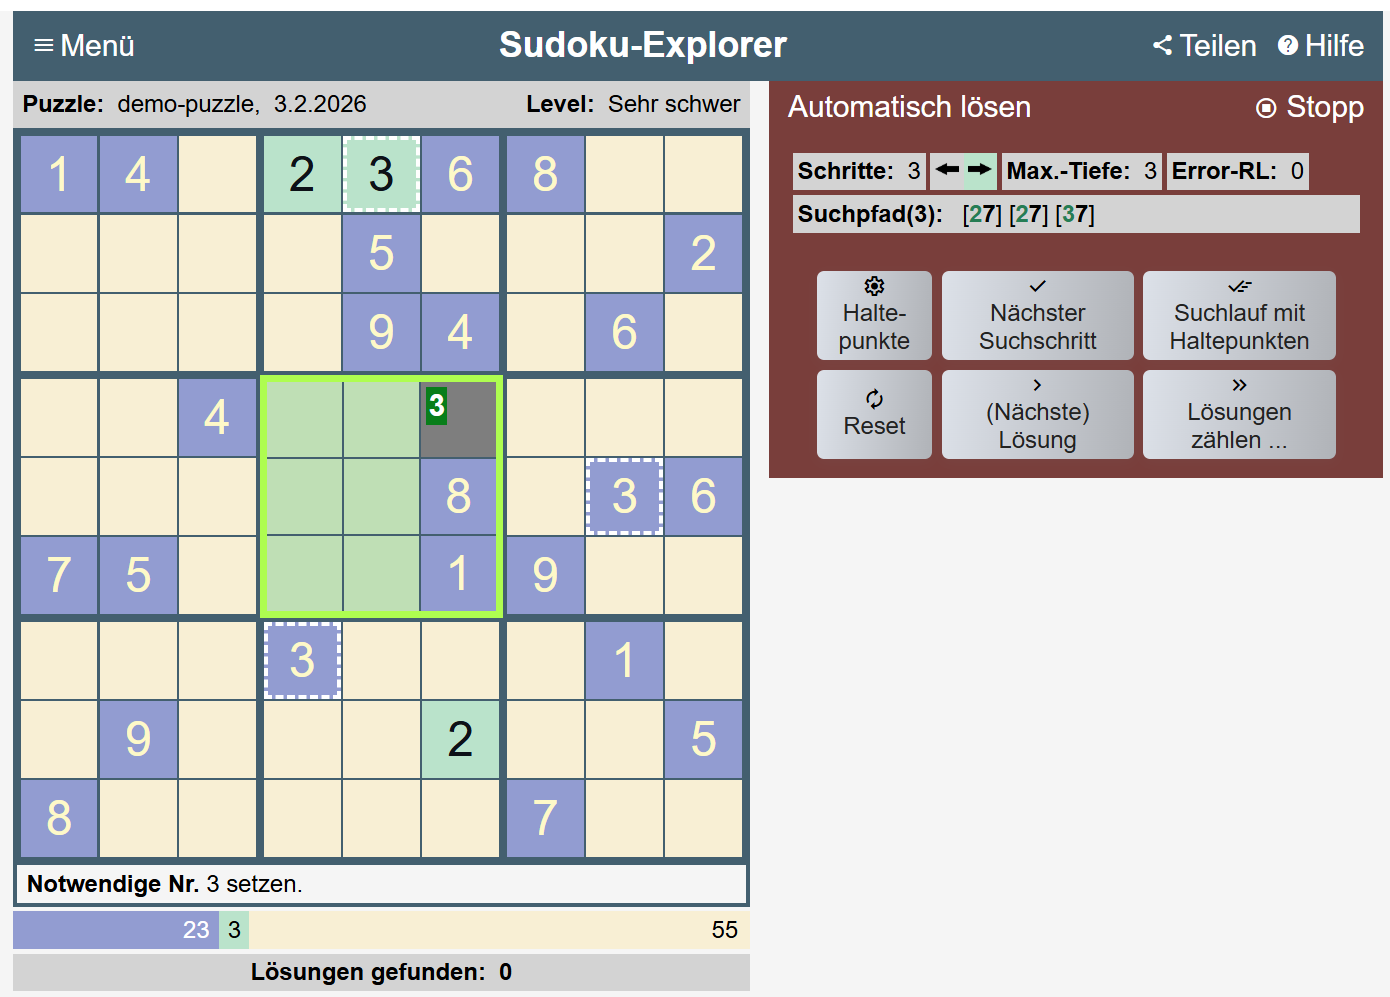
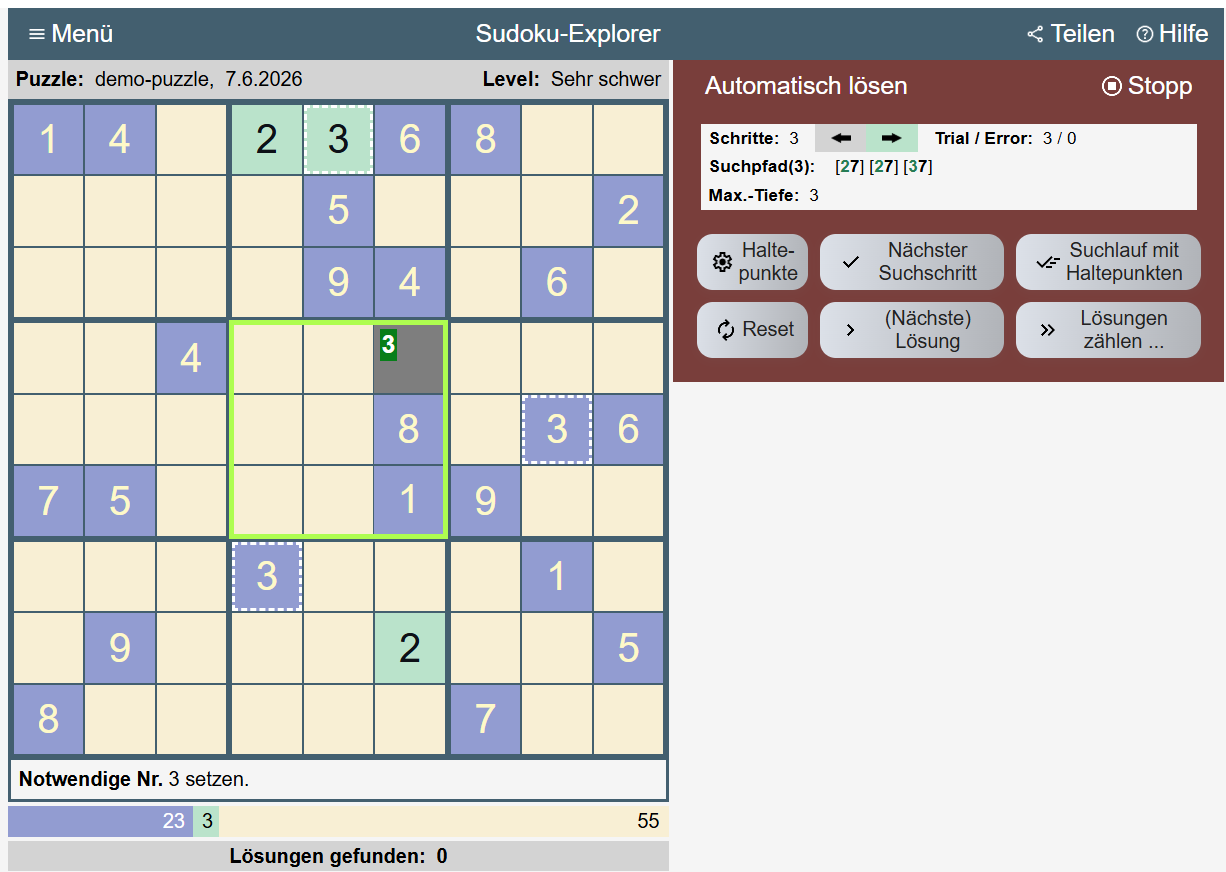
v1.9.59

Changed region(s): [[0.0, 0.0, 1.0, 1.0], [0.124, 0.6812, 0.155, 0.7122], [0.124, 0.6193, 0.155, 0.6502]]

diff --git a/JS/sudokuCommon.js b/JS/sudokuCommon.js
@@ -1,5 +1,5 @@
 let sudoApp;
-let VERSION = 'v1.9.58';
+let VERSION = 'v1.9.59';
 
 // ==========================================
 // Basic classes
@@ -459,7 +459,23 @@ class Search {
     getLevel() {
         if (this.isCompleted()) {
             if (this.getNumberOfSolutions() == 0) {
-                return 'Unlösbar';
+                switch (this.maxSelectionDifficulty) {
+                    case 'msd_Leicht': {
+                        return 'Unlösbar-Leicht'
+                    }
+                    case 'msd_Mittel': {
+                        return 'Unlösbar-Mittel';
+                    }
+                    case 'msd_Schwer': {
+                        return 'Unlösbar-Schwer';
+                    }
+                    case 'msd_Sehr_schwer': {
+                        return 'Unlösbar-Sehr-schwer';
+                    }
+                    default: {
+                        throw new Error('Unexpected maxSelectionDifficulty: ' + this.myStepper.maxSelectionDifficulty);
+                    }
+                }
             } else if (this.getNumberOfSolutions() > 1) {
                 return 'Extrem schwer';
             } else if (this.getNumberOfSolutions() == 1) {

diff --git a/sw.js b/sw.js
@@ -9,7 +9,7 @@ var APP_PREFIX = 'sudo_';
 // you need to change this version (version_01, version_02…). 
 // If you don't change the version, the service worker will give your
 // users the old files!
-var VERSION = 'version_1.9.58';
+var VERSION = 'version_1.9.59';
 
 // The files to make available for offline use. make sure to add 
 // others to this list

diff --git a/help.md b/help.md
@@ -152,7 +152,7 @@ Der Spieler kann sich bei der Lösungssuche unterstützen lassen, indem er in de
  ![Lösen](./imagesHelp/play.png)
  Der Phasenschalter in der Position **Puzzle lösen**. Das Schalten in diese Position versetzt den Explorer in die Lösungsphase. Gleichzeitig ermittelt der Explorer den Schwierigkeitsgrad des eingegebenen Puzzles. Die Lösungsphase kann manuell oder automatisch durchgeführt werden. Wird die automatische Ausführung gestartet, wird diese Schalterposition automatisch gesetzt. |
 
-Hinweis: Gegebene Nummern, die Givens - dies sind blaue Nummern - können in der Lösungsphase nicht gelöscht werden. Falls Givens gelöscht werden sollen, muss man zuvor die Phase-Definition-Taste drücken.
+Hinweis: Gegebene Nummern, die Givens - dies sind blaue Nummern - können in der Lösungsphase nicht gelöscht werden. Falls Givens gelöscht werden sollen, muss man zuvor den Phasenschalter in die Position 'Eingeben' schieben.
 
 ## Jeder Lösungsschritt mit zwei Subschritten
 
@@ -481,9 +481,17 @@ Der automatische Solver dieser App wendet für das Lösen von Sudoku-Puzzles ein
    3. **Überschneidung**
    4. **Zeiger-Paar, Zeiger-Tripel**
 4. **Backtracking**
-   1. **Scanne Kandidaten-Optionen:** Sind keine Zellen mehr verfügbar mit notwendigem Kandidat, mit einem einzigen Kandidat oder mit eimem versteckt einzigen Kandidat, wählt der Solver eine Zelle mit minimaler Anzahl von Kandidaten. Die sogenannten **Optionen der Zelle**. Meist besteht die minimale Optionenmenge aus zwei Optionen. Die Selektion ist aber nicht eindeutig, d.h. es gibt in der Regel mehrere Zellen mit zwei Optionen. In dieser Menge wählt der Solver zufällig eine Zelle.
-   2. **Trial&Error der Optionen** Der Solver setzt eine der beiden Optionennummern. Im Laufe der weiteren Suche kann sich herausstellen, dass diese Nummer keine Lösung des Puzzles erlaubt. Der Backtracking-Prozess kehrt im weiteren Verlauf zu dieser Zelle zurück und versucht dann mit der Wahl der zweiten Nummer aus der Optionenmenge die Lösung zu finden.
-   3. **Vorwärts und Rückwärts** (Backtracking) Der Solver zeigt an, wie er im Suchprozess vorwärts und rückwärts geht. Rückwärts muss er gehen, wenn die aktuell gesetzte Nummer zur Widersprüchlichkeit des Sudokus führt. **Rückwärtsgehen** bedeutet, dass der Solver der Reihe nach zuvor gesetzte Nummern wieder zurücknimmt, bis er auf eine Zelle trifft, in der er mehrere Kandidatnummern zur Auswahl hatte, also eine Zelle mit Optionen. Er wählt dann die nächste noch nicht probierte Zahl der Optionenmenge und geht wieder in den Vorwärts-Modus. Sind alle Kandidatnummern durchprobiert, geht er weiter rückwärts. Wenn er im Rückwärtsgehen bei der ersten gesetzten Zelle ankommt, und die erste Zelle keine weiteren unprobierten Kandidaten mehr hat, hat das Sudoku-Puzzle keine Lösung. Der Solver zeigt die Anzahl der zurückgelegten Schritte an. Jedes Setzen einer Zelle sowie die Rücknahme einer Setzung erhöht den Zähler um 1. Ebenso zeigt der Solver die Anzahl der **Error-Rückwärtsläufe** an. Hinweis: Error-Rückwärtsläufe erfolgen nach Auftreten eines Widerspruchs. Für extrem schwere Puzzles, also Puzzles mit mehreren Lösungen, gibt es zusätzlich **Lösungs-Rückwärtsläufe**. Lösungs-Rückwärtsläufe erfolgen nach Aufdeckung einer Lösung, um zu untersuchen, ob es weitere Lösungen gibt.
+   1. **Scanne Kandidaten-Optionen:** Sind keine Zellen mehr verfügbar mit notwendigem Kandidat, mit einem einzigen Kandidat oder mit eimem versteckt einzigen Kandidat, wählt der Backtracking-Prozess eine Zelle mit minimaler Anzahl von Kandidaten. Die sogenannten **Optionen der Zelle**. Meist besteht die minimale Optionenmenge aus zwei Kandidaten. Die Selektion ist aber nicht eindeutig, d.h. es gibt in der Regel mehrere Zellen mit zwei Optionen. In dieser Menge wählt der Backtracking-Prozess zufällig eine Zelle.
+   2. **Trial & Error der Optionen** Der Backtracking-Prozess setzt eine der beiden Optionennummern (Trial). Im Laufe der weiteren Suche kann sich herausstellen, dass diese Nummer zu einem Widerspruch führt (Error), also keine Lösung des Puzzles erlaubt. Der Backtracking-Prozess kehrt im weiteren Verlauf zu dieser Zelle zurück und versucht dann mit der Wahl der zweiten Nummer aus der Optionenmenge die (nächste) Lösung zu finden. 
+   
+   Der Backtracking-Prozess geht vorwärts und rückwärts. **Vorwärtsgehen** bedeutet, dass der Backtracking-Prozess eine Nummer setzt. Rückwärts muss er gehen, 
+
+   - wenn die aktuell gesetzte Nummer zur Widersprüchlichkeit des Sudokus führt,
+   - oder wenn eine Lösung gefunden wurde und geprüft werden soll, ob es eine weitere Lösung gibt.
+    
+    **Rückwärtsgehen** bedeutet, dass der Backtracking-Prozess der Reihe nach zuvor gesetzte Nummern wieder zurücknimmt, bis er auf eine Zelle trifft, in der er mehrere Kandidatnummern zur Auswahl hatte, also eine Zelle mit Optionen. Er wählt dann die nächste noch nicht probierte Zahl der Optionenmenge und geht wieder in den Vorwärts-Modus. 
+    
+    Sind alle Kandidatnummern durchprobiert, geht er weiter rückwärts. Wenn er im Rückwärtsgehen bei der ersten gesetzten Zelle ankommt, und die erste Zelle keine weiteren unprobierten Kandidaten mehr hat, hat das Sudoku-Puzzle keine Lösung bzw. keine weitere Lösung. Der Backtracking-Prozess zeigt die Anzahl der zurückgelegten Schritte an. Jedes Setzen einer Zelle sowie die Rücknahme einer Setzung erhöht den Zähler um 1. Ebenso zeigt der Backtracking-Prozess die Anzahl der Widersprüche an.
 
 ## Lazy und strikte Kandidatenauswertung
 
@@ -716,7 +724,7 @@ Du verschiebst die Schiebetaste von "Eingeben" auf "Lösen". Im Hintergrund bere
 
 ### Schwierigkeitsgrad des Puzzles prüfen
 
-Wenn wir ein Puzzle manuell lösen wollen, ist die Frage nach dem Schwierigkeitsgrad des Puzzles von entscheidender Bedeutung. Wenn Du ein Puzzle beim Warten im Wartezimmer lösen willst, sollte das eingebene Puzzle 'Sehr leicht', 'Leicht' oder 'Mittel'sein. 
+Wenn wir ein Puzzle manuell lösen wollen, ist die Frage nach dem Schwierigkeitsgrad des Puzzles von entscheidender Bedeutung. Wenn Du ein Puzzle beim Warten im Wartezimmer lösen willst, sollte das eingebene Puzzle 'Sehr leicht', 'Leicht' oder 'Mittel' sein. 
 
 Puzzles mit einem der 3 genannten Schwierigkeitsrade können allein mit dem Scannen nach 'notwendigen' und 'single' Kandidaten gelöst werden. Es bedarf keinerlei Buchführunng von Kandidaten. 
 
@@ -781,7 +789,7 @@ Wir kopieren die Ziffernkette und fügen sie in den Explorer ein, z.B. mit ctrl-
     <figcaption style="font-size: 16px; font-style: italic;">Das eingefügte Puzzle</figcaption>
 </figure>
 
-Nach dem Einfügen hat der Explorer den Schwieigkeitsgrad berechnet. Siehe oben rechts: "Sehr schwer". Wir speichern das Puzzle unter dm Namen: "demo-puzzle". Danach wechseln wir in die automatische Lösungssuche.
+Nach dem Einfügen hat der Spieler den Schiebeschalter auf 'Lösen' gestellt. Daraufhin hat der Explorer den Schwieigkeitsgrad berechnet. Siehe oben rechts: "Sehr schwer". Wir speichern das Puzzle unter dm Namen: "demo-puzzle". Danach wechseln wir in die automatische Lösungssuche.
 
 Die im Folgenden dargestellten Schritte erreichen wir durch Drücken der Schritttaste "Nächster Suchschritt" oder der Suchlauftaste "Suchlauf mit Haltepunkten". Für die Verwendung der Suchlauftaste im Beispiel werden jeweils die gewünschten Haltepunkte gesetzt.
 
@@ -846,7 +854,7 @@ Nach der Setzung der ersten Option durch Drücken der Schrittaste.
 
 <h3> ==> Haltepunkt "Bei Selektionsoptionen" gesetzt und "Bei Widerspruch" zurückgenommen. Suchlauftaste gedrückt:</h3>
 
-**Schritt 43: Zweiter Besuch in der Zelle.** Im Schritt 43.a kehrt der Solver in die Zelle zurück, in der er beim ersten Besuch die 3 gewählt hatte. Zu sehen an der unterstrichenen 3. Nun schaltet er wieder in den Vorwärts-Modus, grüner Pfeil rechts, und selektiert den zweiten Kandidaten mit der Nummer 7. Im Suchpfad ist nun sichtbar, dass die beiden Optionen dieses Schrittes abgearbeitet sind. Beide sind grün.
+**Schritt 43: Zweiter Besuch in der Zelle.** Im Schritt 43.a kehrt der Solver in die Zelle zurück, in der er beim ersten Besuch die 3 gewählt hatte. Zu sehen an der unterstrichenen 3. Nun schaltet er wieder in den Vorwärts-Modus, grüner Pfeil rechts, und selektiert den zweiten Kandidaten mit der Nummer 7. Im Suchpfad ist nun sichtbar, dass die beiden Optionen dieses Schrittes abgearbeitet sind. Beide sind grün. 
 
 <figure>
    <img src="./imagesHelp/Schritt43_aNew.png" alt="Schritt 43_a" style="max-width:100%">
@@ -862,11 +870,11 @@ Nach der Setzung der ersten Option durch Drücken der Schrittaste.
 
 <h3> ==> Haltepunkt "Bei Lösung" gesetzt und andere Haltepunkte zurückgenommen. Suchlauftaste gedrückt:</h3>
 
-**Schritt 224: Alle Zellen belegt.** Im Schritt 224 belegt der Solver die letzte offene Zelle. Das Puzzle ist gelöst.
+**Schritt 274: Alle Zellen belegt.** Im Schritt 274 belegt der Solver die letzte offene Zelle. Das Puzzle ist gelöst.
 
 <figure>
    <img src="./imagesHelp/schritt224_b.png" alt="Schritt 224_b" style="max-width:100%">
-    <figcaption style="font-size: 16px; font-style: italic;">Schritt 224.b: Alle Zellen belegt.</figcaption>
+    <figcaption style="font-size: 16px; font-style: italic;">Schritt 274: Alle Zellen belegt.</figcaption>
 </figure>
 
 # Sudoku-Explorer: Tatsachen und Einsichten über klassische 9x9-Sudokus
